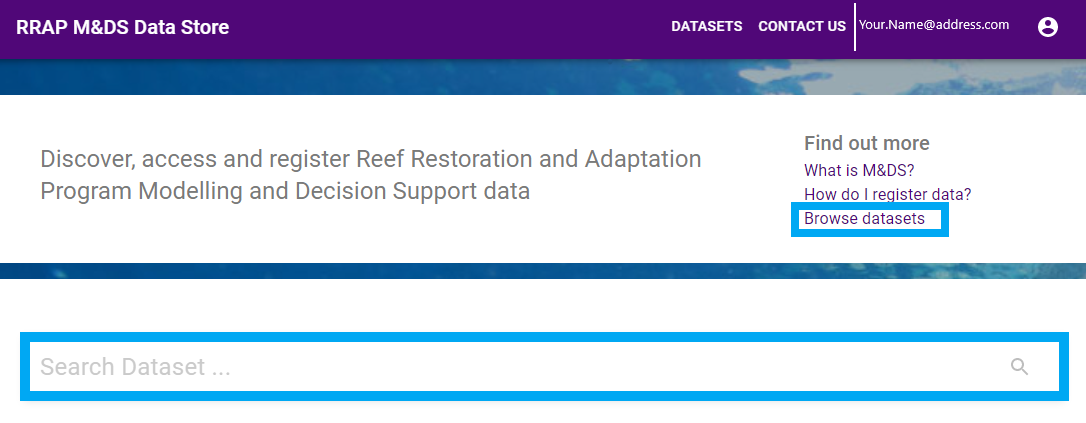
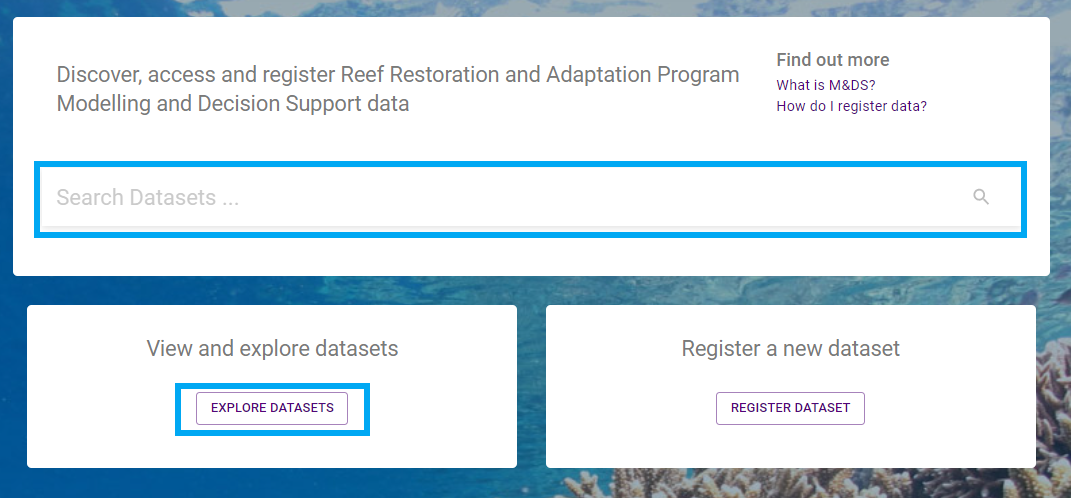
update of uploading & viewing dataset

diff --git a/information-system/data-store/viewing-a-dataset.md b/information-system/data-store/viewing-a-dataset.md
@@ -19,25 +19,33 @@ ____
 </details>
 
 ## Viewing a dataset
-Users can view a dataset a number of ways once they are logged into the RRAP M&DS Data Store.
+Users can view a dataset a number of ways once they are logged into the RRAP M&DS IS Data Store.
 
-- Using the **Browse datasets** link under the under the **Find out more** menu.
-- Entering information, such as the dataset name, in the **Search Dataset** field and clicking the magnifying glass button
+* Clicking on the **Explore datasets** button
+* Entering information, such as the dataset name, in the **Search Datasets** field and clicking the magnifying glass button
 
-|                                     Browse datasets                             |
+
+
+|                                     Viewing datasets                             |
 | :-----------------------------------------------------------------------------: |
 | <img src="../../assets/images/data_store/viewDataset.png" alt="drawing" width="600"/>      |
 
-Users are then taken to the Datasets page.
+Users are then taken to the Datasets page, where they can:
+* Quickly filter datasets by organisation by selecting the check boxes beside each name
+* Select the dataset they are interested in by clicking the dataset title 
+* Refresh their search by clicking the **Refresh list** button
+
+<br>
 
 |                                     Datasets page                               |
 | :-----------------------------------------------------------------------------: |
 | <img src="../../assets/images/data_store/viewDataset2.png" alt="drawing" width="600"/>     |
 
 
-On this page, Users can quickly filter datasets by organisation by selecting the check boxes beside each name. Once you have found the dataset you are looking for, click on the dataset name and you will then be taken to the dataset's metadata page.
 
-|                                   View Dataset metadata view                     |
+Once users have found the dataset they are looking for, they click on the dataset name and will then be taken to the dataset's metadata page.
+
+|                                   Dataset metadata view                     |
 | :------------------------------------------------------------------------------: |
 | <img src="../../assets/images/data_store/viewDataset3.png" alt="drawing" width="600"/>      |
 
@@ -76,16 +84,16 @@ The metadata page has the following information
 Users can share the dataset with others using the Handle link. Using the Handle link to share data is an easy way of sharing files as updates to the data can be made and the user with the link will always have access the most up to date data.
 The Handle link is a persitent digital identifier for the dataset. See [About digital object identifiers](../digital-object-identifiers.html){:target="\_blank"} for more information.  
   
-To share, click on the **Click to copy link** button. Then paste the link into an email, document etc... that is to be shared with other RRAP M&DS IS users. 
+To share, click on the **Click to copy link** button. Then paste the link into an email, document etc... that is to be shared with other RRAP M&DS Information System users. 
 
-|                                     Share dataset                           |
+|                                     Dataset handle link                           |
 | :-------------------------------------------------------------------------: |
-|<img src="../../assets/images/shareDataset.png" alt="drawing" width="200" align ="left"/>      | 
+|<img src="../../assets/images/data_store/shareDataset.png" alt="drawing" width="200" align ="left"/>      | 
  
 
 {% include notes.html content=" Users <strong>must</strong> to be logged into the RRAP M&DS Information System to be able to access the data. Users without an Information System account will need to create one before viewing the data." %}
 
-Underneath the Handle link, the **Dataset Location** information relates to the storage location on the AWS S3 server. The **Record Information** gives the user the date and time of the creation of the metadata record, with any updates to the metadata record shown under *Updated time*.
+Underneath the Handle link, the **Storage Location** information relates to the storage location on the AWS S3 server. The **Record Information** gives the user the date and time of the creation of the metadata record, with any updates to the metadata record shown under *Updated time*.
 
-On the right hand side of the page, Users have an overview of the the metadata and can also [download the dataset](../data-store/downloading-datasets.html){:target="\_blank"} and [upload additional data](../data-store/registering-and-uploading-a-dataset.html){:target="\_blank"} by clicking the corresponding tabs. The **JSON Metadata** can be expanded (so the information can be viewed or copied) by clicking on the **Expand details** button. To close, click the **Expand details** button again. 
+On the right hand side of the page, users have an overview of the metadata and can also [download the dataset](../data-store/downloading-datasets.html){:target="\_blank"}, [upload additional data](../data-store/registering-and-uploading-a-dataset.html){:target="\_blank"} and, if they have privileges, change the [access control](../data-store/access-control.md){:target="\_blank"} of the dataset by clicking the corresponding tabs. The **JSON Metadata** can be expanded (so the information can be viewed or copied) by clicking on the **Expand details** button. To close, click the **Expand details** button again. 
 

diff --git a/information-system/data-store/uploading-a-dataset.md b/information-system/data-store/uploading-a-dataset.md
@@ -80,6 +80,9 @@ If users would prefer to use WinSCP to upload files of any size, instructions on
 
 ___
 ### Uploading files via the AWS Command Line Interface (AWS CLI)
-If users would prefer to the AWS CLI to upload files of any size, instructions on how to do this are [here](./AWSCLI-data-access.html){:target="\_blank"}.  
+If users would prefer to the AWS CLI to upload files of any size, instructions on how to use the AWS CLI are [here](./AWSCLI-data-access.html){:target="\_blank"}.  
 
-**NOTE**: In order to use the AWS CLI for uploading you will need to install it first. Please see [this page](./setting-up-the-aws-cli.html){:target=\_blank"} for instructions on how to set up the AWS CLI v2 on your system.
+
+{% include notes.html content="In order for you to use the AWS CLI for uploading you will need to install it first." %}
+
+Please see [this page](./setting-up-the-aws-cli.html){:target=\_blank"} for instructions on how to set up the AWS CLI on your system.

diff --git a/information-system/getting-started-is/logging-in.md b/information-system/getting-started-is/logging-in.md
@@ -51,4 +51,4 @@ Click the **Mircosoft** option which will take you to your Microsoft login page.
 Search and select your orgainisation then select **Continue to your organisation**.  You will then sign in with your usual organisation credentials, you will be redirected back to RRAP M&DS IS if successful.
 
 ## Access Roles
-After signing in for the first time you will need to request access to appropriate roles. To perform this task please see [Requesting Access](requesting-access-is.md#user-roles){:target="\_blank"}
+After signing in for the first time you will need to request access to appropriate roles. To perform this task please see [Requesting Access](requesting-access-is.md#user-roles){:target="\_blank"}.
